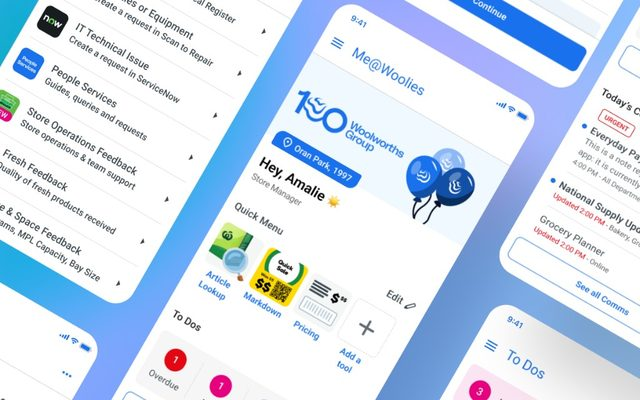
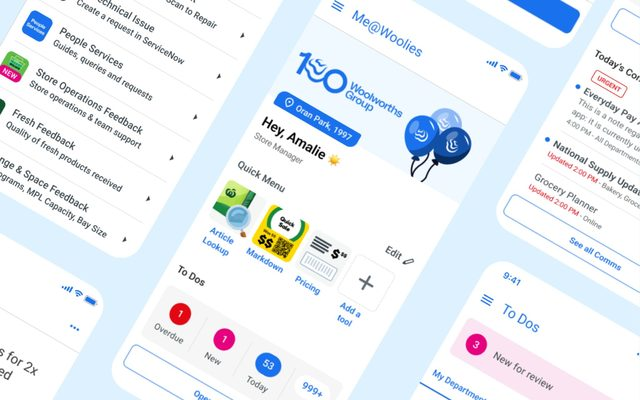
New To Dos, Core Platform and Food Safety hero images from Figma
2048px sources with 640/1024/1600 variants, srcset and Work cards updated, alt text refreshed.

Claude-Session: https://claude.ai/code/session_01HoZMpTbMvRVAoChpwWa2w3

diff --git a/portfolio-repo/index.html b/portfolio-repo/index.html
@@ -34,14 +34,14 @@
   <div class="project-grid">
     <div class="project-col">
       <a class="project-card" href="projects/woolies-core.html" data-reveal>
-        <div class="project-image real-photo" style="background-image:url('assets/woolies-platform.jpg');"></div>
+        <div class="project-image real-photo" style="background-image:url('assets/woolies-platform-1600.jpg');"></div>
         <div class="project-caption">
           <h3>Me@Woolies: Core Platform</h3>
           <p class="project-sub">One front door for 130,000 team members who were working across 70+ separate tools.</p>
         </div>
       </a>
       <a class="project-card" href="projects/woolies-food-safety.html" data-reveal>
-        <div class="project-image real-photo" style="background-image:url('assets/woolies-food-safety-hero.jpg');"></div>
+        <div class="project-image real-photo" style="background-image:url('assets/woolies-food-safety-hero-1600.jpg');"></div>
         <div class="project-caption">
           <h3>Me@Woolies: Food Safety</h3>
           <p class="project-sub">Digitising food safety checks for auditability, without losing the speed and ease of paper.</p>
@@ -64,7 +64,7 @@
     </div>
     <div class="project-col">
       <a class="project-card" href="projects/woolies-todos.html" data-reveal>
-        <div class="project-image real-photo" style="background-image:url('assets/woolies-todos.jpg');"></div>
+        <div class="project-image real-photo" style="background-image:url('assets/woolies-todos-1600.jpg');"></div>
         <div class="project-caption">
           <h3>Me@Woolies: To Dos</h3>
           <p class="project-sub">Getting daily tasks out of long communications and onto the shop floor.</p>

diff --git a/portfolio-repo/projects/woolies-food-safety.html b/portfolio-repo/projects/woolies-food-safety.html
@@ -27,7 +27,7 @@
       <h1 class="case-title">Me@Woolies: Food Safety</h1>
       <p class="case-lede">Digitising food safety checks for auditability, without losing the speed and ease of paper.</p>
 
-      <div class="case-cover"><img src="../assets/woolies-food-safety-hero.jpg" srcset="../assets/woolies-food-safety-hero-640.jpg 640w, ../assets/woolies-food-safety-hero.jpg 1024w" sizes="(max-width: 720px) 100vw, 800px" alt="Three Food Safety screens on the RF device: the pre-check, a weighing step with a scale diagram, and a failed check." loading="lazy" decoding="async"></div>
+      <div class="case-cover"><img src="../assets/woolies-food-safety-hero.jpg" srcset="../assets/woolies-food-safety-hero-640.jpg 640w, ../assets/woolies-food-safety-hero-1024.jpg 1024w, ../assets/woolies-food-safety-hero-1600.jpg 1600w, ../assets/woolies-food-safety-hero.jpg 2048w" sizes="(max-width: 720px) 100vw, 800px" alt="Three Food Safety screens on the RF device: the pre-check, a weighing step with a scale diagram, and a failed check." loading="lazy" decoding="async"></div>
 
 
       <div class="meta-grid">

diff --git a/portfolio-repo/projects/woolies-core.html b/portfolio-repo/projects/woolies-core.html
@@ -27,7 +27,7 @@
       <h1 class="case-title">Me@Woolies: Core Platform</h1>
       <p class="case-lede">One front door for 130,000 team members who were working across 70+ separate tools.</p>
 
-      <div class="case-cover"><img src="../assets/woolies-platform.jpg" srcset="../assets/woolies-platform-640.jpg 640w, ../assets/woolies-platform.jpg 1024w" sizes="(max-width: 720px) 100vw, 800px" alt="The Me@Woolies home screen on a store RF device." loading="lazy" decoding="async"></div>
+      <div class="case-cover"><img src="../assets/woolies-platform.jpg" srcset="../assets/woolies-platform-640.jpg 640w, ../assets/woolies-platform-1024.jpg 1024w, ../assets/woolies-platform-1600.jpg 1600w, ../assets/woolies-platform.jpg 2048w" sizes="(max-width: 720px) 100vw, 800px" alt="Tilted Me@Woolies screens: the home screen with the To Dos summary, the app launcher, and the To Dos and comms lists." loading="lazy" decoding="async"></div>
 
       <div class="meta-grid">
         <div>

diff --git a/portfolio-repo/projects/woolies-todos.html b/portfolio-repo/projects/woolies-todos.html
@@ -27,7 +27,7 @@
       <h1 class="case-title">Me@Woolies: To Dos</h1>
       <p class="case-lede">Getting daily tasks out of long communications and onto the shop floor.</p>
 
-      <div class="case-cover"><img src="../assets/woolies-todos.jpg" srcset="../assets/woolies-todos-640.jpg 640w, ../assets/woolies-todos.jpg 1024w" sizes="(max-width: 720px) 100vw, 800px" alt="The To Dos triage and list screens on a store RF device." loading="lazy" decoding="async"></div>
+      <div class="case-cover"><img src="../assets/woolies-todos.jpg" srcset="../assets/woolies-todos-640.jpg 640w, ../assets/woolies-todos-1024.jpg 1024w, ../assets/woolies-todos-1600.jpg 1600w, ../assets/woolies-todos.jpg 2048w" sizes="(max-width: 720px) 100vw, 800px" alt="The To Dos list on a handheld device, with a task card open showing its checklist and a Mark as Complete button." loading="lazy" decoding="async"></div>
 
       <div class="meta-grid">
         <div>
